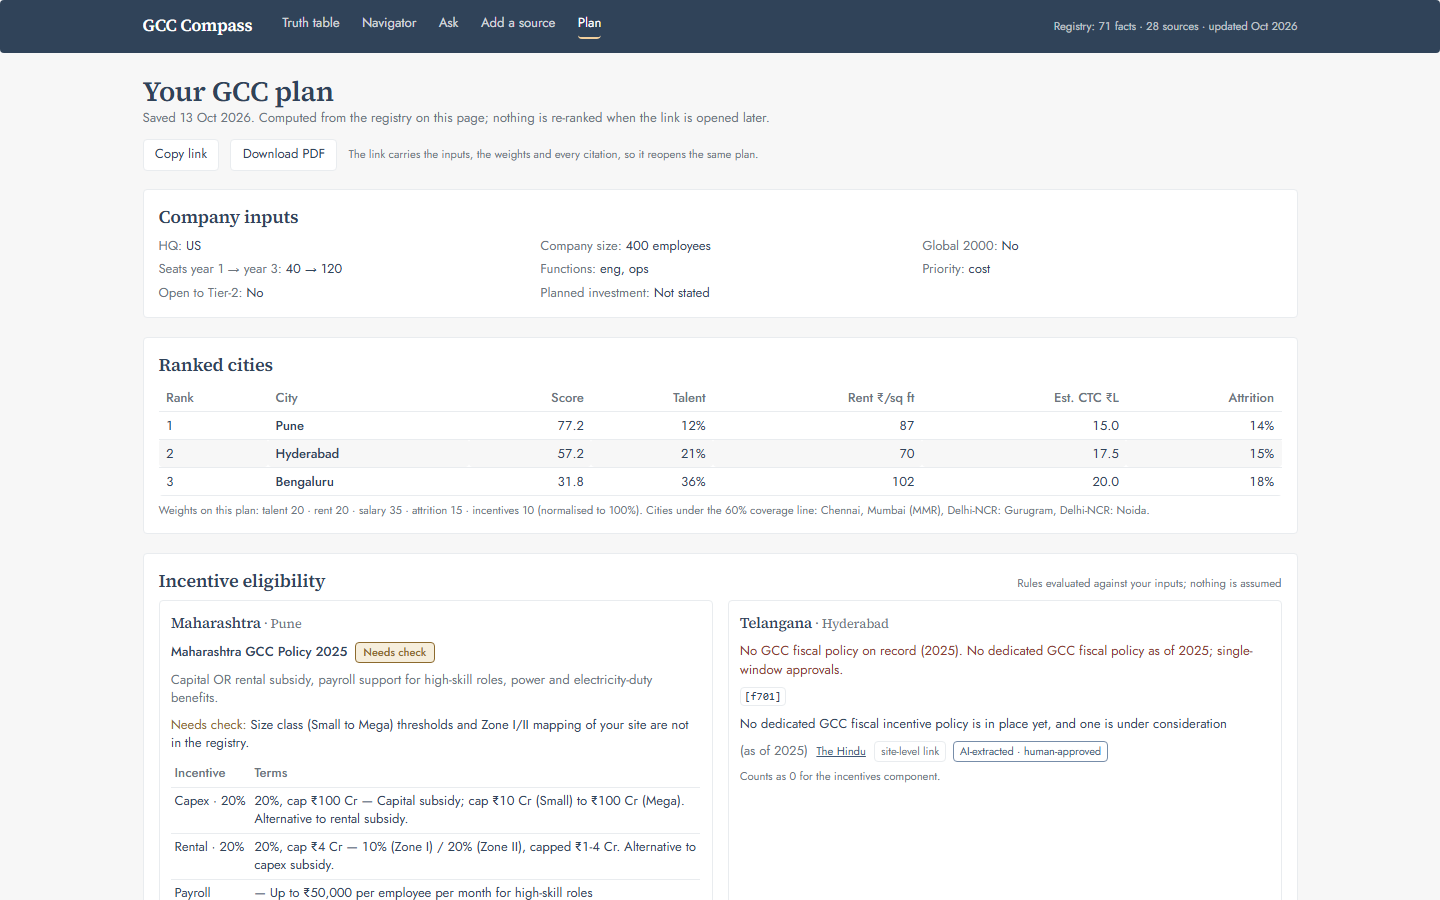
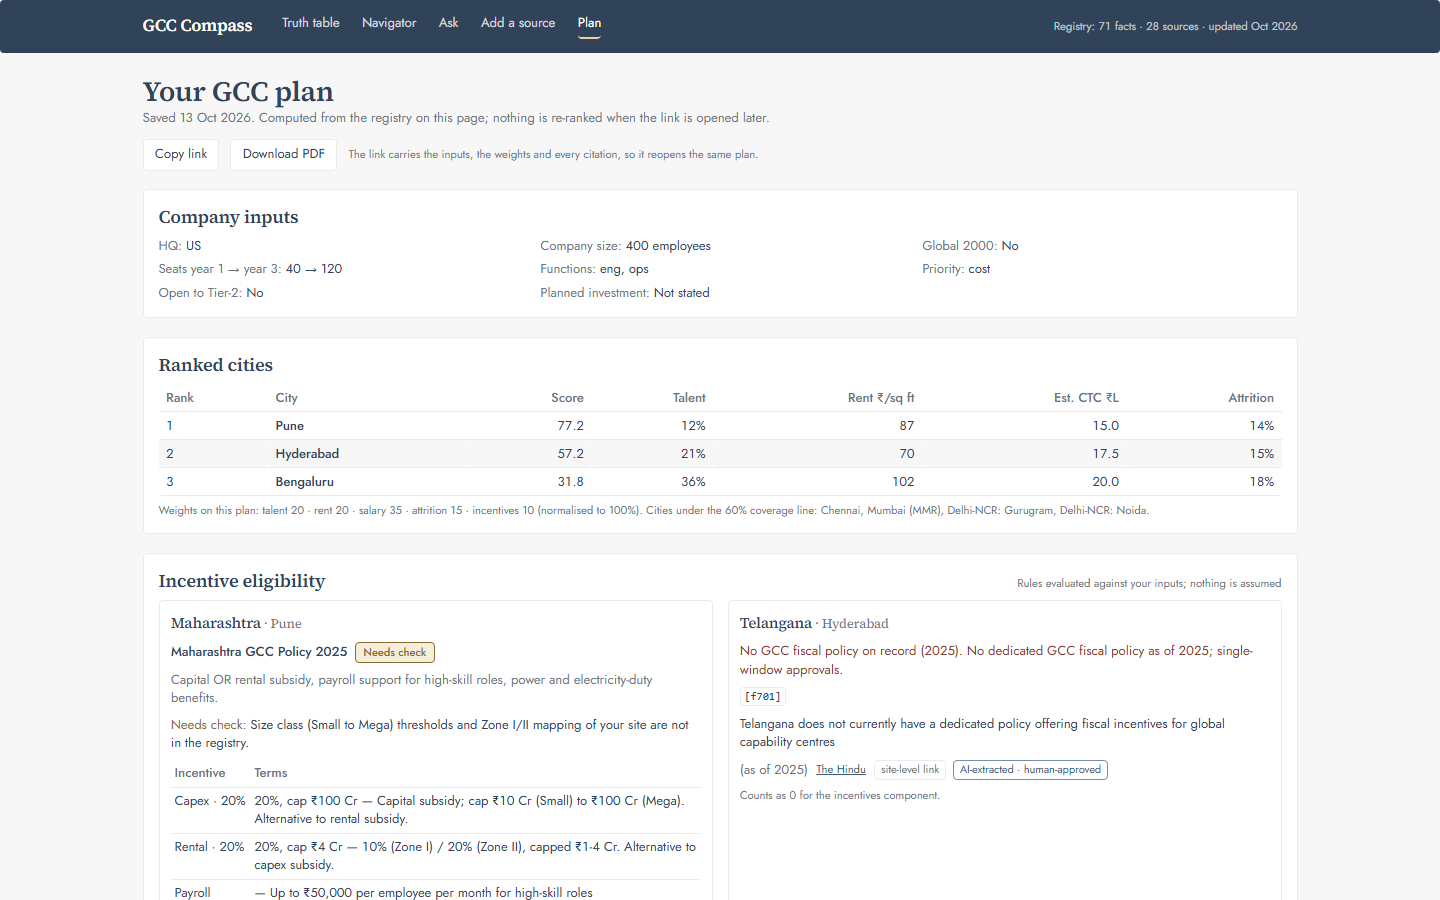
two follow-ups from the text pass
/api/why still returned a 502 with the model's own message when the service was
busy, so the note box said 'The model service is rate-limited right now' while Ask
said 'Busy, try again in a minute' for the same condition. Both now answer 429 with
Retry-After, using the same transient flag rather than matching the message text.

The smoke check for the Telangana extraction looked for 'gcc_policy_status' and
'TS' - the raw keys the review row used to show before they were relabelled. It
now looks for 'GCC policy status' and 'Telangana', so it checks the human labels
the page actually renders.

Changed region(s): [[0.5, 0.7778, 0.8438, 0.9022]]

diff --git a/app/api/why/route.ts b/app/api/why/route.ts
@@ -1,7 +1,7 @@
 import { NextResponse } from "next/server";
 import { z } from "zod";
 import { registry } from "@/lib/registry";
-import { chatJson, llmConfigured } from "@/lib/llm";
+import { chatJson, llmConfigured, LLMError } from "@/lib/llm";
 import { buildWhySystem } from "@/lib/prompts";
 import { checkGrounded } from "@/lib/grounding";
 
@@ -79,12 +79,16 @@ export async function POST(req: Request) {
           : "Your previous note contained a number that is not in the facts above. Remove it or cite the fact it comes from.",
       );
     } catch (e) {
-      const msg = (e as Error).message;
-      console.error("[why] llm failure:", msg);
-      return NextResponse.json(
-        { error: msg.includes("rate-limited") ? msg : "Couldn't write the note.", rateLimited: msg.includes("rate-limited") },
-        { status: 502 },
-      );
+      console.error("[why] llm failure:", (e as Error).message);
+      // the model service being unavailable is a 429 the reader can act on, the
+      // same as Ask: a 502 would read as a broken app rather than a busy one
+      if (e instanceof LLMError && e.transient) {
+        return NextResponse.json(
+          { error: "Busy, try again in a minute." },
+          { status: 429, headers: { "Retry-After": "60" } },
+        );
+      }
+      return NextResponse.json({ error: "Couldn't write the note." }, { status: 502 });
     }
     const res = NoteSchema.safeParse(parsed);
     if (!res.success) continue;
